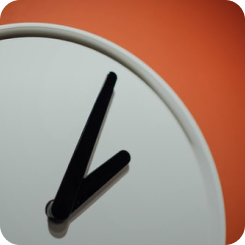
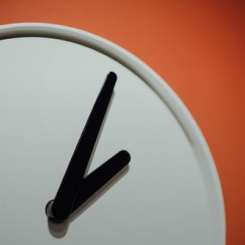
media queries for main section

diff --git a/style/main.css b/style/main.css
@@ -21,6 +21,7 @@
   width: 100%;
   height: 100%;
   object-fit: cover;
+  border-radius: 20px;
 }
 
 .sales__item:nth-child(1) {
@@ -65,4 +66,95 @@
 
 .sales__item:nth-child(11) {
   grid-area: tenth;
+}
+
+.sales__item_768 {
+  display: none;
+}
+
+@media (max-width: 1024px) {
+  .sales__list {
+    grid-template-columns: 1fr 1fr 1fr 1fr;
+    grid-template-rows: 314px 217px 217px 217px 217px 418px;
+    gap: 24px;
+  
+    grid-template-areas: 
+      "main main main main"
+      "first second fourth fourth"
+      "third third fourth fourth"
+      "fifth fifth seventh eighth"
+      "sixth sixth seventh ninth"
+      "tenth tenth tenth tenth";
+  }
+  
+  .sales__item:nth-child(8) {
+    grid-area: tenth;
+  }
+  
+  .sales__item:nth-child(9) {
+    grid-area: seventh;
+  }
+  
+  .sales__item:nth-child(10) {
+    grid-area: eighth;
+  }
+  
+  .sales__item:nth-child(11) {
+    grid-area: ninth;
+  }
+}
+
+@media (max-width: 768px) {
+  .sales__list {
+    grid-template-columns: 140px 140px 220px 140px;
+    grid-template-rows: 280px 0px 60px 60px 60px 60px 60px 60px 60px 60px 337px;
+    gap: 20px;
+  
+    grid-template-areas: 
+      "main main main main"
+      ". . . ."
+      "first second fourth fourth"
+      "first second fourth fourth"
+      "third third fourth fourth"
+      "third third fourth fourth"
+      "fifth fifth fourth fourth"
+      "fifth fifth seventh eighth"
+      "sixth sixth seventh eighth"
+      "sixth sixth seventh ninth"
+      "tenth tenth tenth tenth";
+  }
+
+  .sales__item:nth-child(3) {
+    grid-area: second;
+  }
+
+  .sales__item:nth-child(9) img {
+    content: url('../img/8-th_768.jpg');
+  }
+
+  .sales__item:nth-child(11) img {
+    content: url('../img/10-th_768.jpg');
+  }
+}
+
+@media (max-width: 320px) {
+  .sales__list {
+    grid-template-columns: 1fr 1fr;
+    grid-template-rows: 340px 130px 118px 280px 118px 118px 130px 130px 123px;
+  
+    grid-template-areas: 
+      "main main"
+      "first second"
+      "third third"
+      "fourth fourth"
+      "fifth fifth"
+      "sixth sixth"
+      "seventh eighth"
+      "seventh ninth"
+      "tenth tenth";
+  }
+
+  .sales__item:nth-child(1) img {
+    content: url('../img/main_320.png');
+  }
 }
